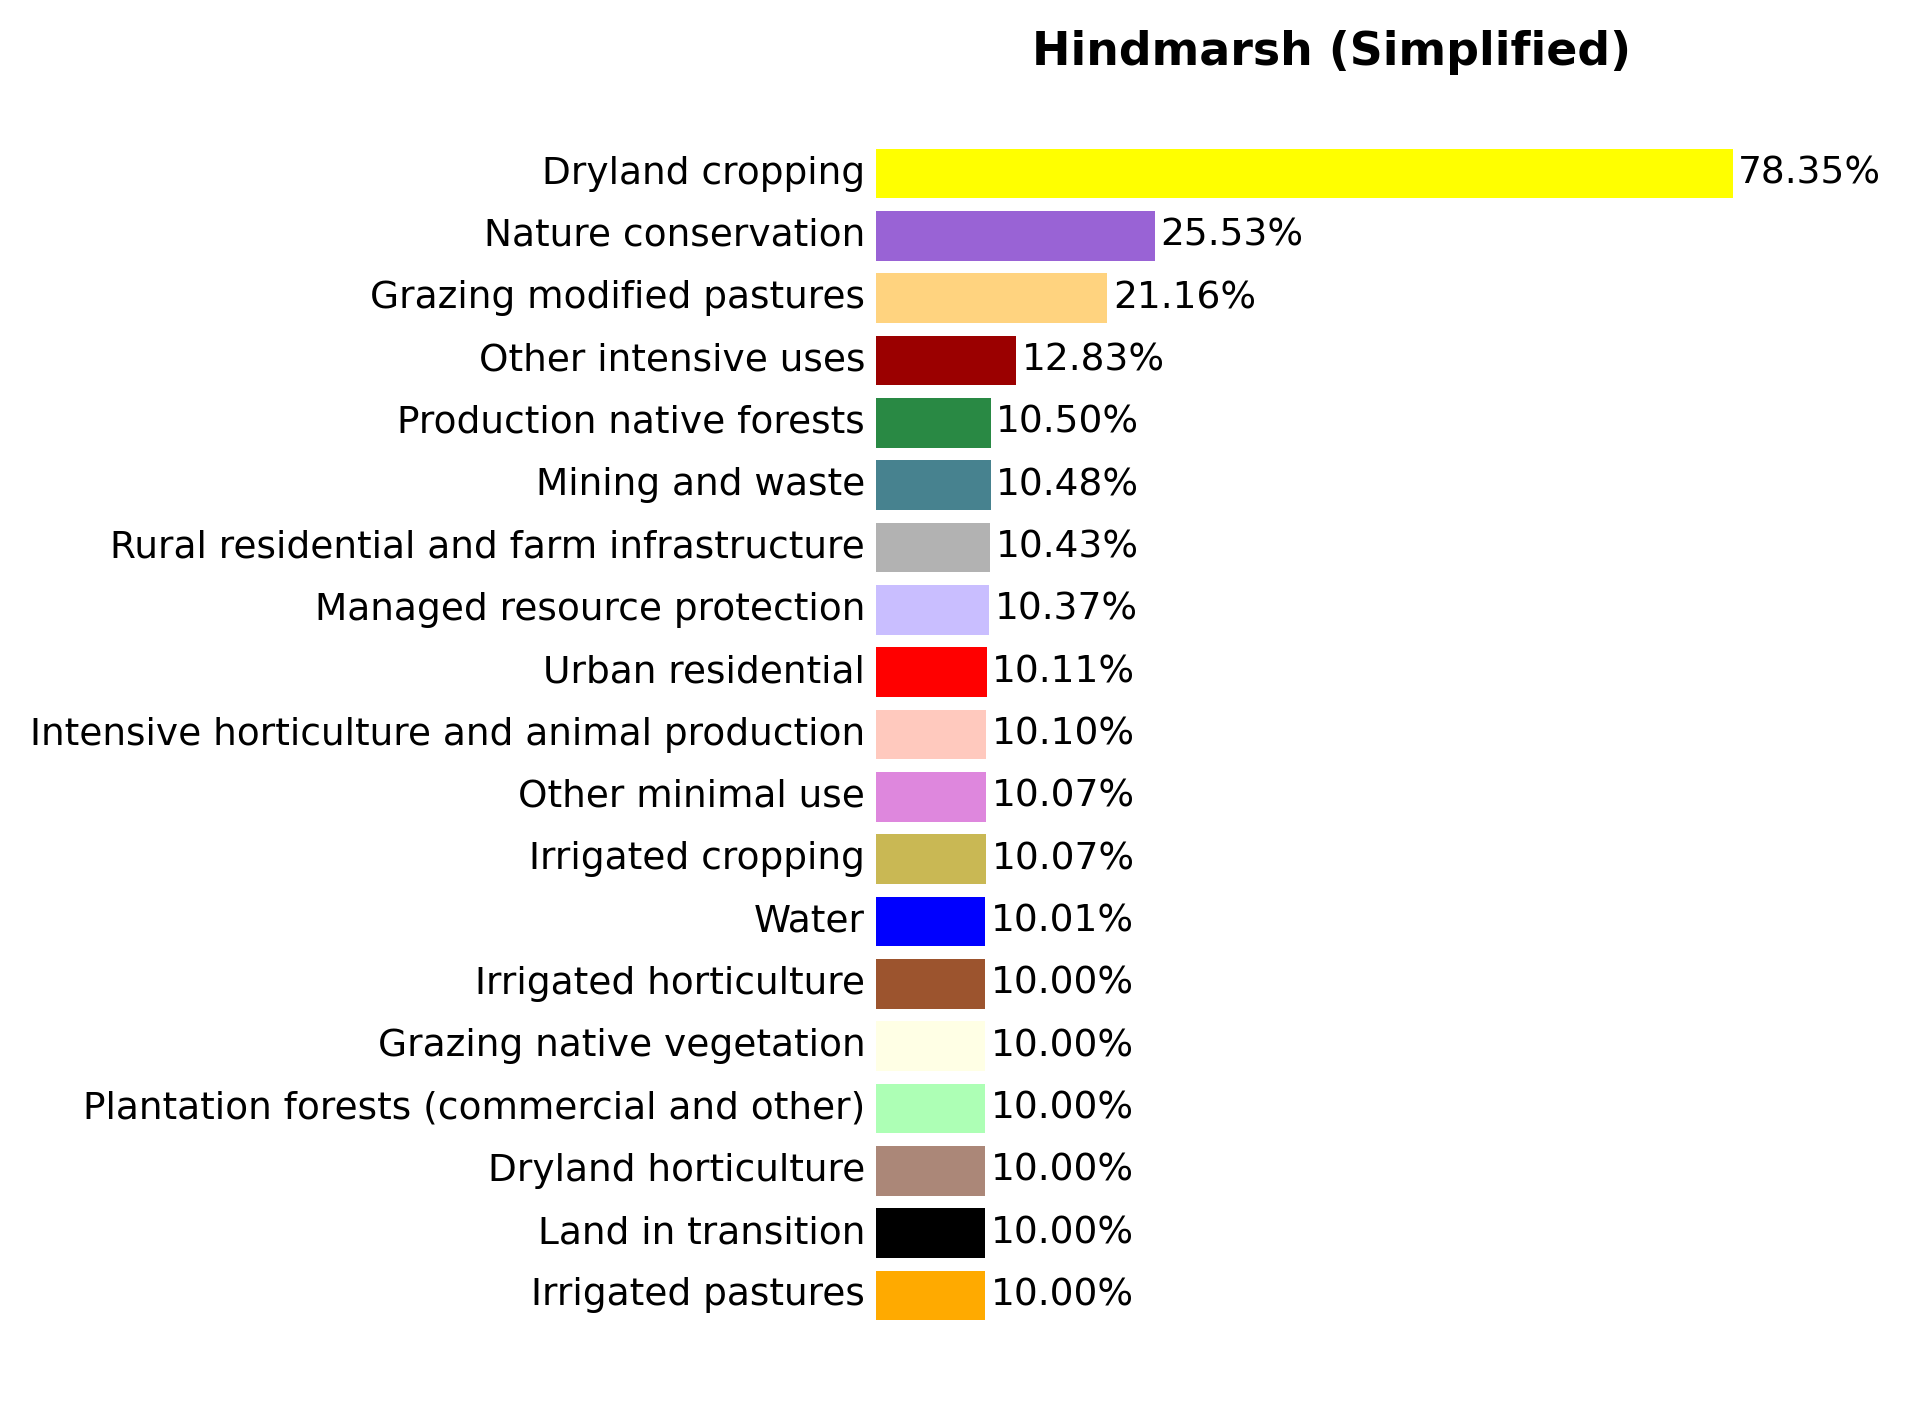
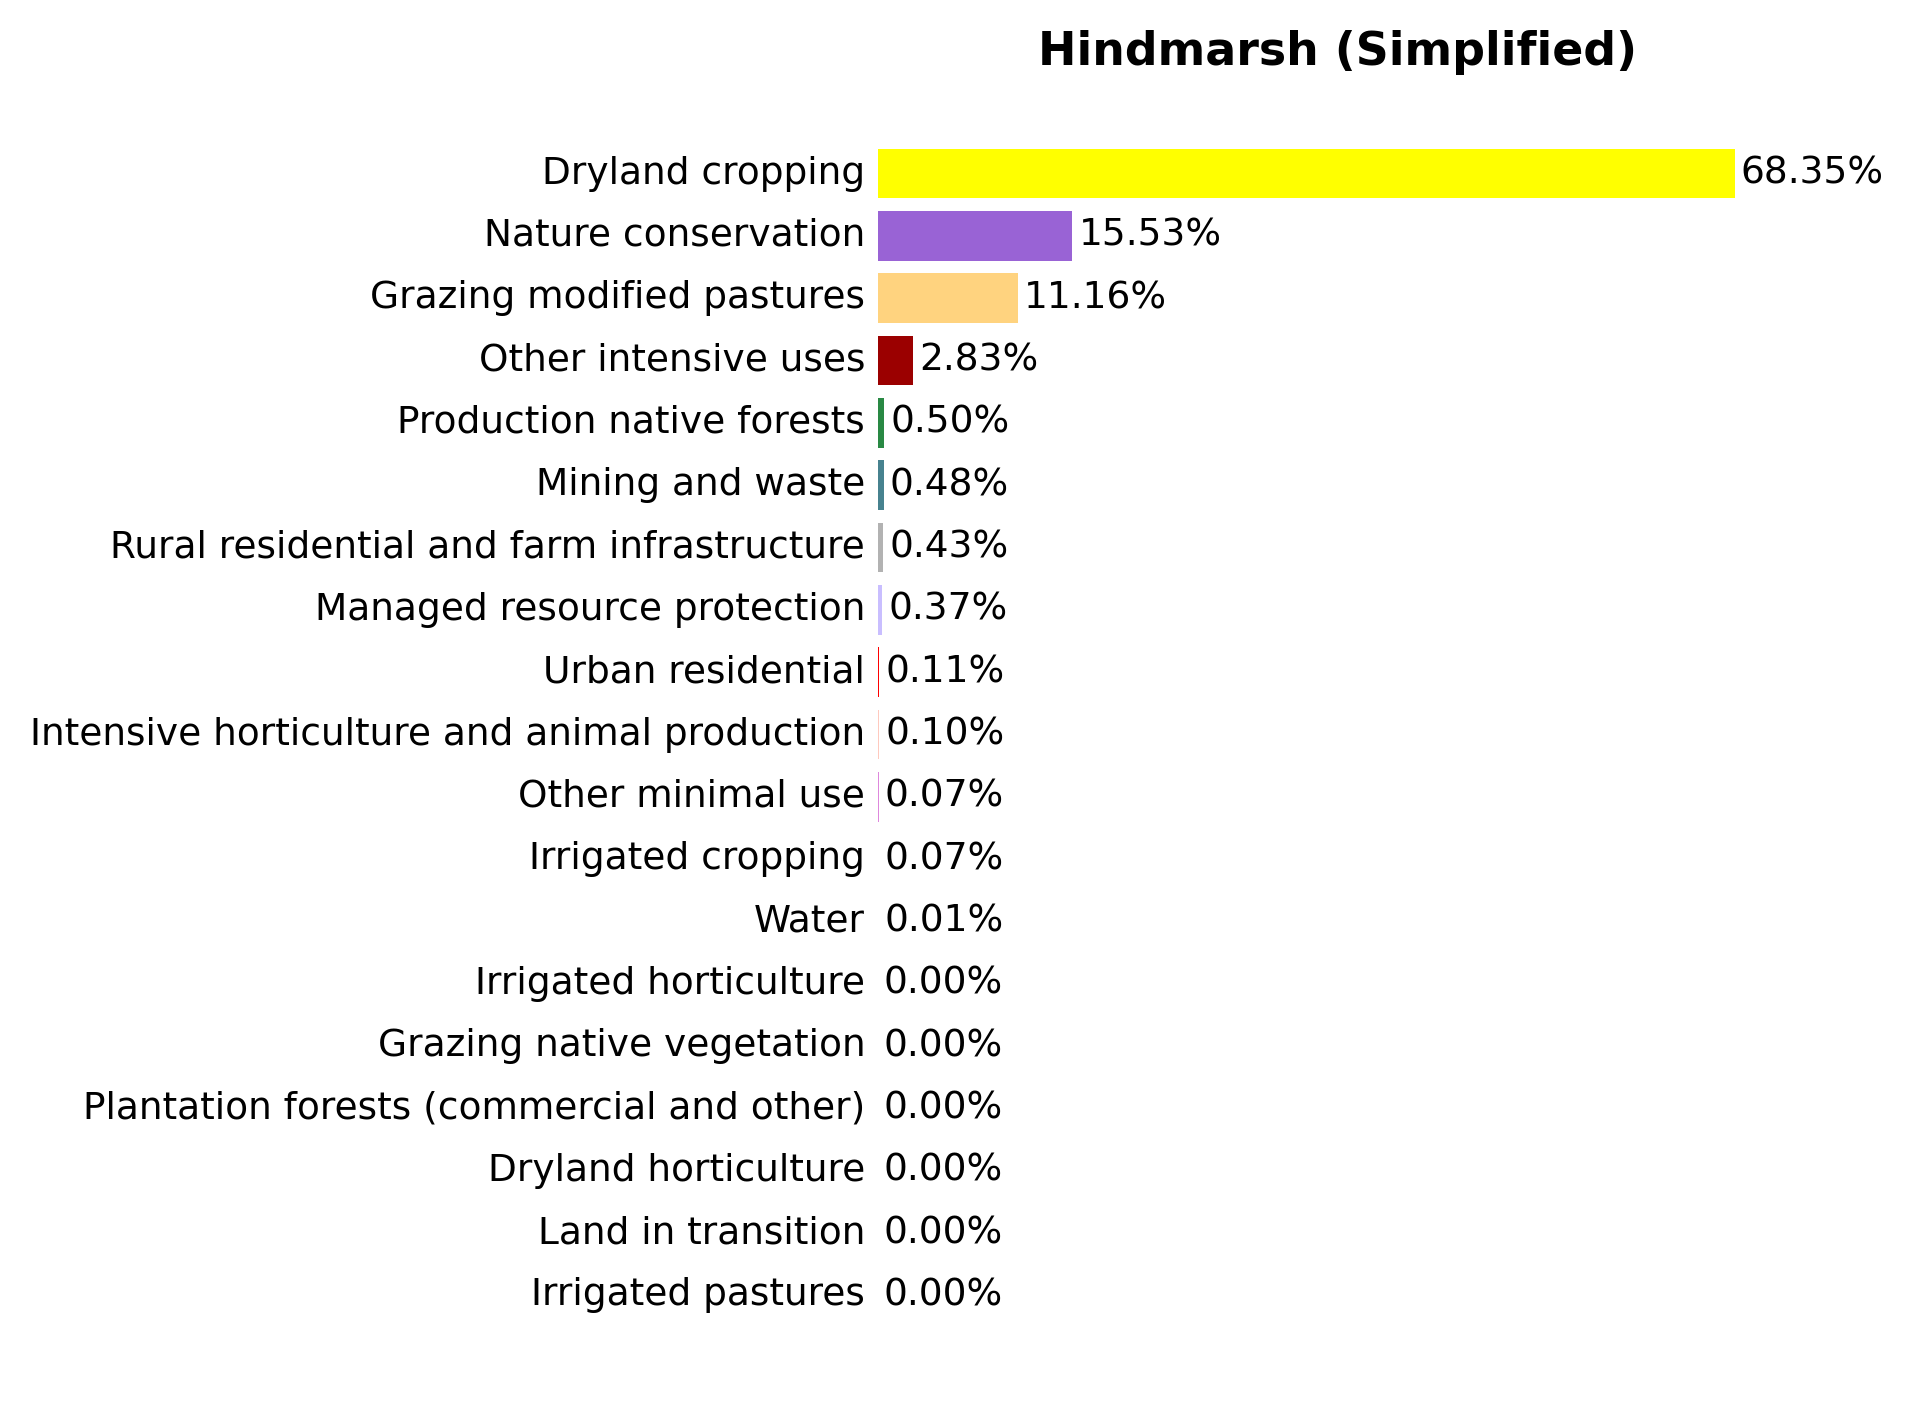
done

diff --git a/report_land_use.py b/report_land_use.py
@@ -41,7 +41,7 @@ def report_plots(area, file_name, report_type, class_counts, total, color_mappin
     merged = {cls: class_counts.get(cls, 0) for cls in unique_classes}
     items = sorted(merged.items(), key=lambda x: x[1], reverse=True)
     labels = [label for label, _ in items][::-1]
-    percents = [((c / total) * 100)+10 if total > 0 else 0 for _, c in items][::-1]
+    percents = [((c / total) * 100) if total > 0 else 0 for _, c in items][::-1]
     colors = [color_mapping.get(label, (0.5, 0.5, 0.5, 1.0)) for label in labels]
 
     fig, ax = plt.subplots()

diff --git a/get_class_maps.py b/get_class_maps.py
@@ -20,7 +20,7 @@ def _to_rgba(vals):
         return (0.5, 0.5, 0.5, 1.0)
     r, g, b = vals[:3]
     if (r, g, b) == (255, 255, 255):
-        r, g, b = (220, 220, 220)
+        r, g, b = (240, 240, 240)
     a = vals[3] if len(vals) > 3 else 100
     if a <= 1:
         alpha = a
